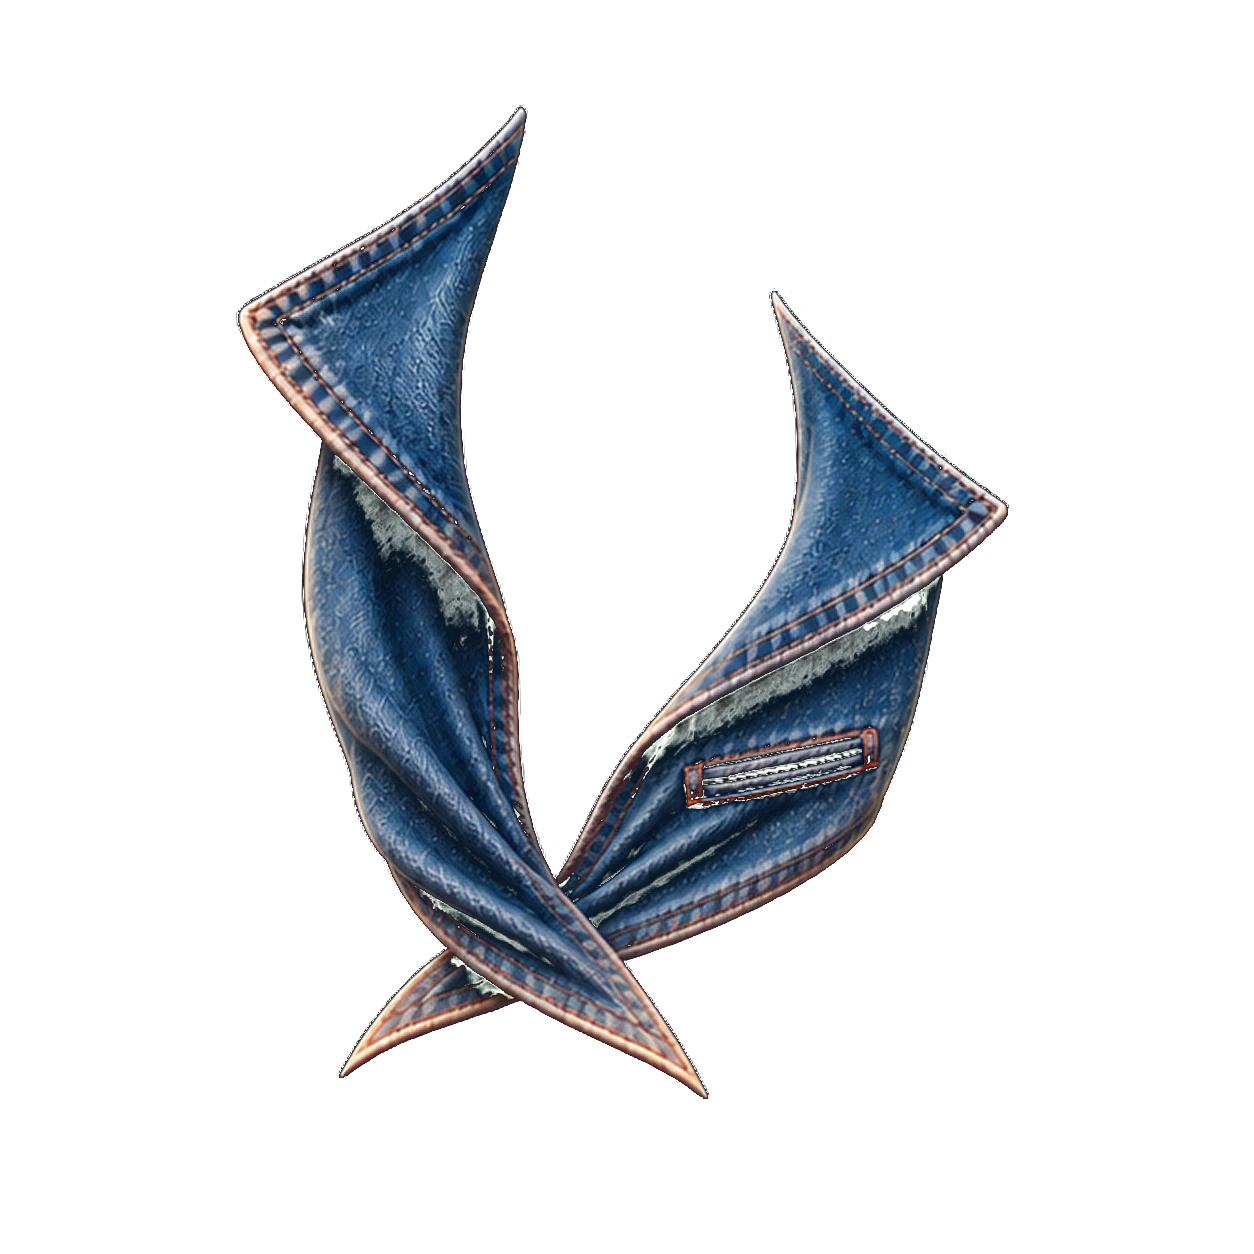
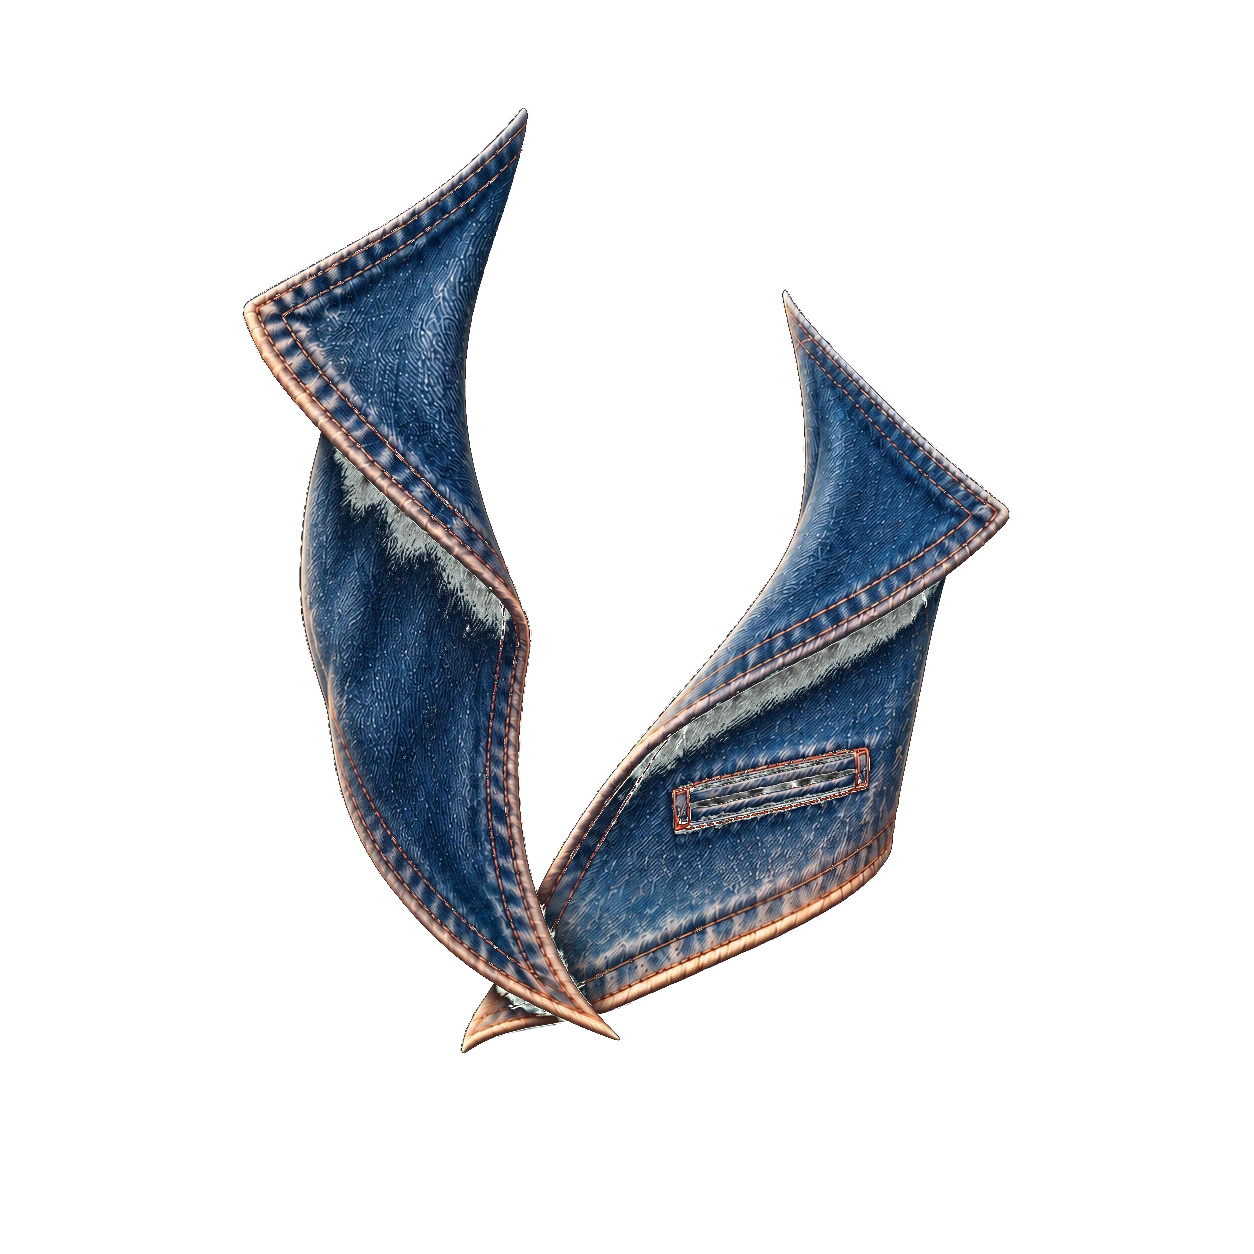
Knot flipbook: 16 ChatGPT frames, optional cross-fade and speed
Swaps in ChatGPT's 16-frame idle-to-knot set (~1085 ms) and rebuilds
assets/knot. Adds Tune > Knot: Blend (0 = hard cuts, up to a full
cross-fade into the next frame) and Speed.

Changed region(s): [[0.1866, 0.0933, 0.8086, 0.8708]]

diff --git a/src/rosie/Knot.js b/src/rosie/Knot.js
@@ -1,5 +1,6 @@
 // The idle ⇄ knot flipbook: ChatGPT's hand-drawn frames (assets/knot/, built by tools/build_knot.py),
-// played as hard cuts on a 2D canvas laid over the WebGL one. No blending between frames.
+// played on a 2D canvas laid over the WebGL one. Hard cuts by default; `blend` (0…1) cross-fades
+// into the next frame over that last share of each hold.
 // While a frame is on screen the shader's own jacket is hidden (see `cover`).
 const base = new URL('../../assets/knot/', import.meta.url);
 
@@ -41,9 +42,9 @@ export class Knot {
   get cover() { return this.frame >= 0; }     // a frame is showing: hide the shader jacket
   get busy() { return this.frame !== this.target && !(this.target < 0 && this.frame < 0); }
 
-  update(dt) {
+  update(dt, speed = 1) {
     if (this.frame === this.target) return;
-    this.wait -= dt;
+    this.wait -= dt*speed;
     while (this.wait <= 0 && this.frame !== this.target) {
       this.frame += this.target > this.frame ? 1 : -1;
       this.wait += this.frame >= 0 ? this.holds[this.frame] : 0;
@@ -51,14 +52,22 @@ export class Knot {
   }
 
   // scale: the jacket's picture height as a fraction of the canvas height (same formula as the shader)
-  draw(width, height, scale) {
+  draw(width, height, scale, blend = 0) {
     const c = this.canvas, ctx = this.ctx;
     if (c.width !== width || c.height !== height) { c.width = width; c.height = height; }
     ctx.clearRect(0, 0, width, height);
     if (this.frame < 0) return;
     const P = scale*height, b = this.box;
     const x = width/2 + (b.x - .5)/1.5*P, y = height/2 - (.5 - b.y)*P;
-    ctx.drawImage(this.images[this.frame], x, y, b.w/1.5*P, b.h*P);
+    const w = b.w/1.5*P, h = b.h*P;
+    ctx.globalAlpha = 1;
+    ctx.drawImage(this.images[this.frame], x, y, w, h);
+    const next = this.frame + (this.target > this.frame ? 1 : -1);
+    if (blend > 0 && this.frame !== this.target && next >= 0) {
+      const p = 1 - Math.max(0, this.wait)/this.holds[this.frame];   // how far through this hold
+      const a = Math.min(1, Math.max(0, (p - (1 - blend))/blend));
+      if (a > 0) { ctx.globalAlpha = a; ctx.drawImage(this.images[next], x, y, w, h); ctx.globalAlpha = 1; }
+    }
   }
 
   destroy() { this.canvas?.remove(); }

diff --git a/src/rosie/Rosie.js b/src/rosie/Rosie.js
@@ -89,7 +89,7 @@ export class Rosie {
     this.alive += ((this.state === 'off' ? 0 : 1) - this.alive)*(1 - Math.exp(-3*dt));
     if (this.wanted === 'knot' && !this.knot.knotted && Math.abs(this.pose - 1) < .02) this.knot.knotted = true;
     if (this.wanted !== 'knot' && !this.knot.cover) this.state = this.wanted;
-    this.knot.update(dt);
+    this.knot.update(dt, this.tune.knotSpeed);
     this.glide.update(dt, this.state);
     const T = this.tune, pace = dt*(.04 + .96*this.alive);
     this.audio += (this.level - this.audio)*(1 - Math.exp(-12*dt));
@@ -119,7 +119,7 @@ export class Rosie {
       this.front.draw(f, this.quad);
       g.disable(g.BLEND);
     }
-    this.knot.draw(c.width, c.height, scale);
+    this.knot.draw(c.width, c.height, scale, this.tune.knotBlend);
   }
 
   destroy() {

diff --git a/src/rosie/config.js b/src/rosie/config.js
@@ -20,6 +20,7 @@ const IDLE = {
   ribOn: 1, ribCount: 3, ribAmount: 1500, ribSpeed: 1, ribBright: 1, ribWidth: 1, ribOrbit: 1,
   dustOn: 1, dustAmount: 700, dustSpeed: 1, dustBright: 1,
   jacketMotion: 1, jacketSpeed: 1, breathRate: 1, pSize: 1, tilt: 1,
+  knotBlend: 0, knotSpeed: 1,   // knot flipbook: cross-fade share of each frame (0 = hard cuts), playback speed
 };
 
 export const TUNE_DEFAULTS = {

diff --git a/src/ui/tune/groups.js b/src/ui/tune/groups.js
@@ -18,4 +18,6 @@ export const GROUPS = [
   ['Scene', null, [
     ['jacketMotion', 'Jacket motion', 0, 2.5, .05], ['jacketSpeed', 'Jacket speed', 0, 3, .05], ['breathRate', 'Breathing', .3, 2.5, .05],
     ['pSize', 'Particle size', .3, 2.5, .05], ['tilt', 'Tilt follow', 0, 2, .05]]],
+  ['Knot', null, [
+    ['knotBlend', 'Blend', 0, 1, .05], ['knotSpeed', 'Speed', .25, 3, .05]]],
 ];
